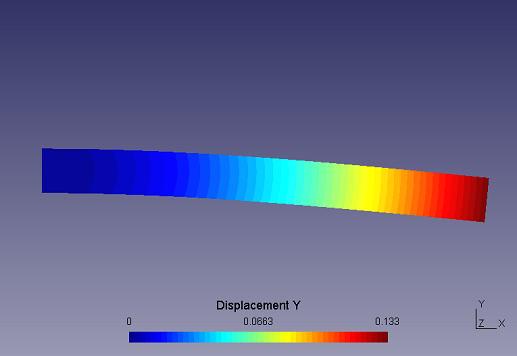
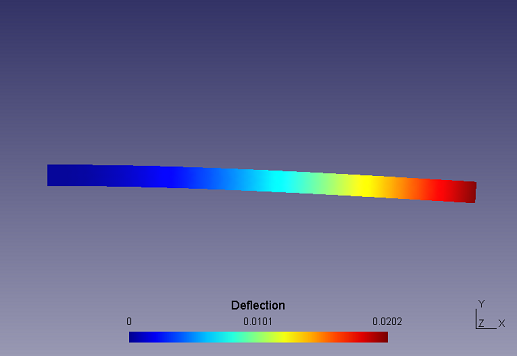
Improved cantilever example

diff --git a/README.md b/README.md
@@ -497,15 +497,24 @@ ENigMAocc.saveMeshFile(mesh, "occ_07.msh")
 
 ![cantilever](https://github.com/bjaraujo/ENigMA/blob/master/images/fem_01.png)
 ```python
+
 import math
 import ENigMA
+
+b = 0.05
+h = 0.05
+
+F = -1000.0
+L = 1.0
+E = 30E+9
+I = b * h * h * h / 12
 
 edgeMesh = ENigMA.CMshMeshDouble()
 
 node1 = ENigMA.CMshNodeDouble(0.0, 0.0, 0.0)
-node2 = ENigMA.CMshNodeDouble(1.0, 0.0, 0.0)
-node3 = ENigMA.CMshNodeDouble(1.0, 0.1, 0.0)
-node4 = ENigMA.CMshNodeDouble(0.0, 0.1, 0.0)
+node2 = ENigMA.CMshNodeDouble(L, 0.0, 0.0)
+node3 = ENigMA.CMshNodeDouble(L, h, 0.0)
+node4 = ENigMA.CMshNodeDouble(0.0, h, 0.0)
 
 edgeMesh.addNode(1, node1)
 edgeMesh.addNode(2, node2)
@@ -548,12 +557,12 @@ surfaceMesh = triangleMesher.mesh()
 
 for i in range(0, surfaceMesh.nbElements()):
     elementId = surfaceMesh.elementId(i)
-    surfaceMesh.element(elementId).setThickness(1.0);
+    surfaceMesh.element(elementId).setThickness(b);
 
 # Material
 material = ENigMA.CMatMaterialDouble()
 
-material.addProperty(ENigMA.PT_ELASTIC_MODULUS, 30E+6)
+material.addProperty(ENigMA.PT_ELASTIC_MODULUS, E)
 material.addProperty(ENigMA.PT_POISSON_COEFFICIENT, 0.3)
 
 # Stress field
@@ -567,6 +576,8 @@ u.setDiscretOrder(ENigMA.DO_LINEAR)
 u.setDiscretLocation(ENigMA.DL_NODE)
 u.setNbDofs(2)
 
+index = 0;
+
 for i in range(0, surfaceMesh.nbNodes()):
     nodeId = surfaceMesh.nodeId(i)
     node = surfaceMesh.node(nodeId)
@@ -575,8 +586,9 @@ for i in range(0, surfaceMesh.nbNodes()):
         u.setFixedValue(surfaceMesh.nodeIndex(nodeId), 0, 0.0);
         u.setFixedValue(surfaceMesh.nodeIndex(nodeId), 1, 0.0);
         
-    if (math.fabs(node.x() - 1.0) < 1E-6 and math.fabs(node.y() - 0.1) < 1E-6):
-        u.setSource(surfaceMesh.nodeIndex(nodeId), 1, -1000.0);
+    if (math.fabs(node.x() - L) < 1E-6 and math.fabs(node.y() - h) < 1E-6):
+        index = i;
+        u.setSource(surfaceMesh.nodeIndex(nodeId), 1, F);
 
 pdeEquation = ENigMA.CPdeEquationDouble(ENigMA.laplacian(u))
 
@@ -588,6 +600,13 @@ pdeEquation.solve(u)
 
 posGmsh = ENigMA.CPosGmshDouble()
 posGmsh.save(u, "fem_01.msh", "tris");
+
+print('Max deflection (calculated) = ' + str(u.value(index * 2 - 1)))
+
+# Theoretical displacement
+deflection = (F * L * L * L) / (3 * E * I)
+
+print('Max deflection (theoretical) = ' + str(deflection))
 ```
 
 
